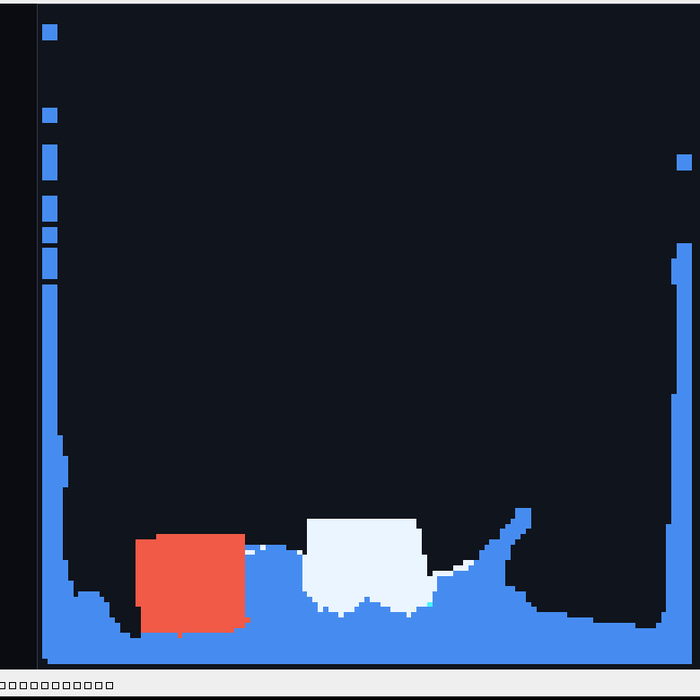
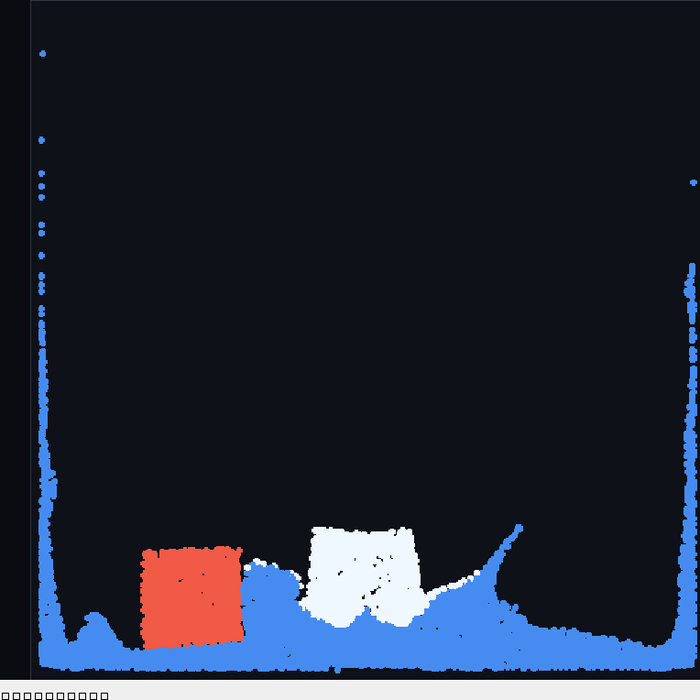
perf(mpm): 512-square render buffer, cheaper input, reference sampling density
Resolution and physics decoupled: particles are drawn into their own 512x512 buffer with a 5-tap disc and a separable blur, then scaled to the canvas, instead of sharing the 128^2 simulation grid - the pixels are now four times finer without touching the solver. The first attempt at finer detail raised the sampling density to 16 particles per cell, which is four times what the constitutive model assumes: every particle starts overlapped, the extra pressure explodes at t=0 and pins the water to the walls. Reverted to the reference's 2^dim = 4. Raising the grid to 256 instead made the free surface break into filaments, so the grid stays at the 128 that was verified. Input lag had two causes: particle_info() was copying every particle's position and velocity back from the GPU each frame just to print a count, and a mouse drag queued one cube per move event; stats now refresh every tenth frame and pouring is throttled to twenty per second with a smaller brush. Measured 39 fps against 25 before, with the scene now rendering at 512.

diff --git a/apps/Physics/MPM2D.py b/apps/Physics/MPM2D.py
@@ -22,6 +22,8 @@ MATERIAL_STATIONARY = 4
 
 WATER_DENSITY = 1.0
 SUPPORT_PLASTICITY = True
+RENDER_RES = 512             # 渲染缓冲分辨率（和物理解析度无关）
+SAMPLE_DENSITY = 4           # 每格采样数，必须保持参考的 2^dim=4，否则初始过压会炸开
 
 
 @ti.data_oriented
@@ -72,8 +74,10 @@ class MPM2D:
         self.grid_v = ti.Vector.field(dim, real, (g, g))
         self.grid_m = ti.field(real, (g, g))
 
-        # 图像缓冲（粒子直接画进这里）
-        self.img = ti.Vector.field(3, real, (res, res))
+        # 图像缓冲：分辨率和物理解析度解耦，画得细
+        self.rres = RENDER_RES
+        self.img = ti.Vector.field(3, real, (RENDER_RES, RENDER_RES))
+        self.blur_tmp = ti.Vector.field(3, real, (RENDER_RES, RENDER_RES))
 
         self._compile()
 
@@ -86,6 +90,9 @@ class MPM2D:
         gv, gm = self.grid_v, self.grid_m
         padding = self.padding
         gsize = self.gsize
+        rres = self.rres
+        img = self.img
+        blur_tmp = self.blur_tmp
         water_density = WATER_DENSITY
 
         @ti.kernel
@@ -198,31 +205,46 @@ class MPM2D:
                     C[p] = new_C
                     x[p] += dt * v[p]
 
-        # ---------- 粒子直接画进图像缓冲 ----------
+        # ---------- 渲染：512² 缓冲，粒子画成小圆盘再模糊 ----------
         @ti.kernel
         def render(radius: ti.i32):
-            for i, j in self.img:
-                self.img[i, j] = ti.Vector([16.0, 20.0, 28.0])
+            for i, j in img:
+                img[i, j] = ti.Vector([14.0, 17.0, 24.0])
             for p in range(n_part[None]):
-                px = ti.cast(x[p][0] * res, ti.i32)
-                py = ti.cast(x[p][1] * res, ti.i32)
-                col = ti.Vector([230.0, 230.0, 230.0])
+                px = x[p][0] * rres
+                py = (1.0 - x[p][1]) * rres
+                col = ti.Vector([235.0, 235.0, 240.0])
                 if mat[p] == MATERIAL_WATER:
                     col = ti.Vector([70.0, 140.0, 240.0])
                 elif mat[p] == MATERIAL_ELASTIC:
                     col = ti.Vector([240.0, 90.0, 70.0])
                 elif mat[p] == MATERIAL_SNOW:
-                    col = ti.Vector([235.0, 245.0, 255.0])
+                    col = ti.Vector([240.0, 248.0, 255.0])
                 elif mat[p] == MATERIAL_SAND:
                     col = ti.Vector([220.0, 190.0, 110.0])
+                ix = ti.cast(px, ti.i32)
+                iy = ti.cast(py, ti.i32)
                 for di in range(-radius, radius + 1):
                     for dj in range(-radius, radius + 1):
-                        if di * di + dj * dj > radius * radius + 1:
-                            continue
-                        ii = px + di
-                        jj = py + dj
-                        if 0 <= ii < res and 0 <= jj < res:
-                            self.img[res - 1 - jj, ii] = col
+                        if di * di + dj * dj <= radius * radius + 1:
+                            ii = ix + di
+                            jj = iy + dj
+                            if 0 <= ii < rres and 0 <= jj < rres:
+                                img[jj, ii] = col
+
+        @ti.kernel
+        def blur():
+            for i, j in img:
+                acc = img[i, j] * 4.0
+                cnt = 4.0
+                for di, dj in ti.static(ti.ndrange(-1, 2)):
+                    ii = ti.min(ti.max(i + di, 0), rres - 1)
+                    jj = ti.min(ti.max(j + dj, 0), rres - 1)
+                    acc += img[ii, jj]
+                    cnt += 1.0
+                blur_tmp[i, j] = acc / cnt
+            for i, j in img:
+                img[i, j] = blur_tmp[i, j]
 
         @ti.kernel
         def max_velocity() -> real:
@@ -238,6 +260,7 @@ class MPM2D:
         self._grid_op = grid_op
         self._g2p = g2p
         self._render = render
+        self._blur = blur
 
     # ---------- 加粒子（照参考的 add_cube） ----------
     @ti.kernel
@@ -263,7 +286,7 @@ class MPM2D:
     def add_cube(self, lower, size, material, velocity=(0.0, 0.0),
                  sample_density=None):
         if sample_density is None:
-            sample_density = 2 ** dim
+            sample_density = SAMPLE_DENSITY
         vol = size[0] * size[1]
         num_new = int(sample_density * vol / self.dx ** dim + 1)
         start = int(self.n_particles[None])
@@ -292,8 +315,9 @@ class MPM2D:
             self._g2p(dt)
         return substeps
 
-    def draw(self, radius=1):
+    def draw(self, radius=2):
         self._render(radius)
+        self._blur()
         return np.clip(self.img.to_numpy(), 0, 255).astype(np.uint8)
 
     def particle_info(self):
@@ -380,9 +404,11 @@ class MPMApp(QMainWindow):
         self.material = "固体"
         self.paused = False
         self.frame = None
-        self.frame_dt = 1.0 / 240.0
+        self.frame_dt = 1.0 / 480.0
         self.fps = 0.0
         self._last_t = time.perf_counter()
+        self._last_pour = 0.0
+        self._stat_tick = 0
 
         self.build_scene()
         self.init_ui()
@@ -400,12 +426,16 @@ class MPMApp(QMainWindow):
                           material=MATERIAL_SNOW)
         self.sim.add_cube(lower=(0.30, 0.22), size=(0.40, 0.20),
                           material=MATERIAL_WATER)
-        self.frame = self.sim.draw(radius=1)
+        self.frame = self.sim.draw(radius=2)
 
     def pour(self, x, y):
+        now = time.perf_counter()
+        if now - self._last_pour < 0.05:      # 最多 20 次/秒，否则一下子灌太多粒子
+            return
+        self._last_pour = now
         if not (0.05 < x < 0.95 and 0.05 < y < 0.95):
             return
-        r = self.brush / 100.0 * 0.10
+        r = self.brush / 100.0 * 0.06
         r = max(0.01, r)
         self.sim.add_cube(lower=(x - r, y - r), size=(2 * r, 2 * r),
                           material=MATERIAL_IDS[self.material],
@@ -415,16 +445,17 @@ class MPMApp(QMainWindow):
     def tick(self):
         if not self.paused:
             self.sim.step(self.frame_dt)
-            self.frame = self.sim.draw(radius=1)
+            self.frame = self.sim.draw(radius=2)
             self.canvas.update()
             now = time.perf_counter()
             dt = now - self._last_t
             self._last_t = now
             self.fps = 0.9 * self.fps + 0.1 * (1.0 / max(dt, 1e-6))
-        info = self.sim.particle_info()
-        self.lbl_stat.setText(
-            "粒子 %d · %.0f fps · 每帧 %.4f s 仿真" % (
-                int(self.sim.n_particles[None]), self.fps, self.frame_dt))
+        self._stat_tick += 1
+        if self._stat_tick % 10 == 0:          # 每 10 帧才回读粒子数，避免每帧同步 GPU
+            self.lbl_stat.setText(
+                "粒子 %d · %.0f fps · 每帧 %.4f s 仿真" % (
+                    int(self.sim.n_particles[None]), self.fps, self.frame_dt))
 
     # ---------- UI ----------
     def init_ui(self):
